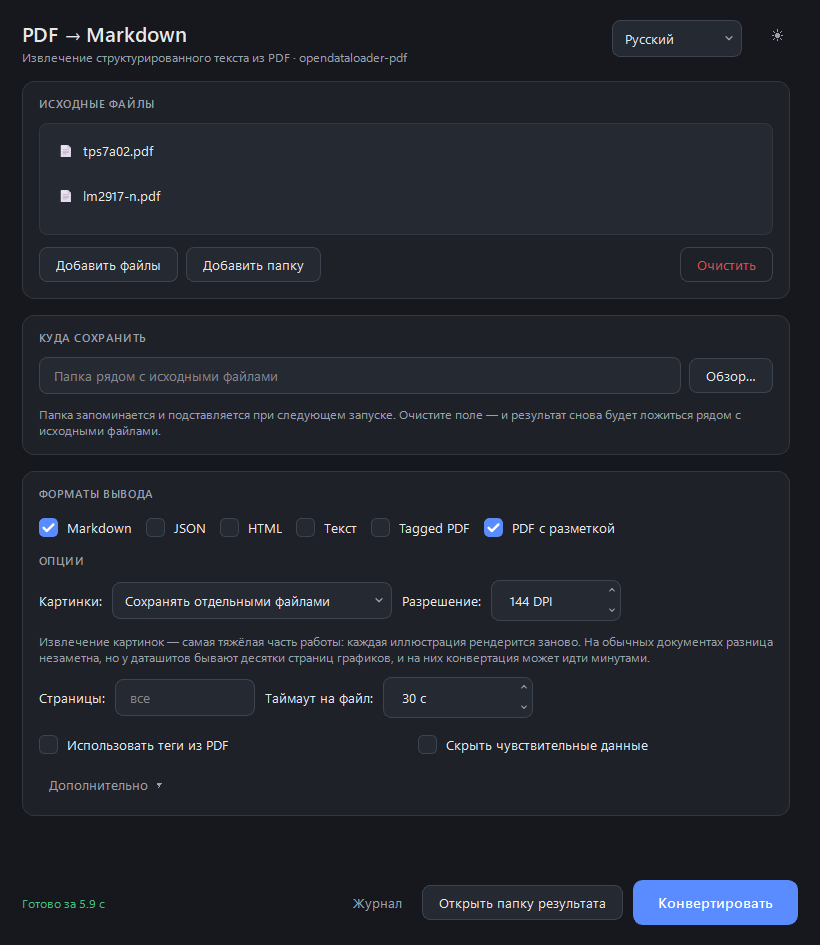
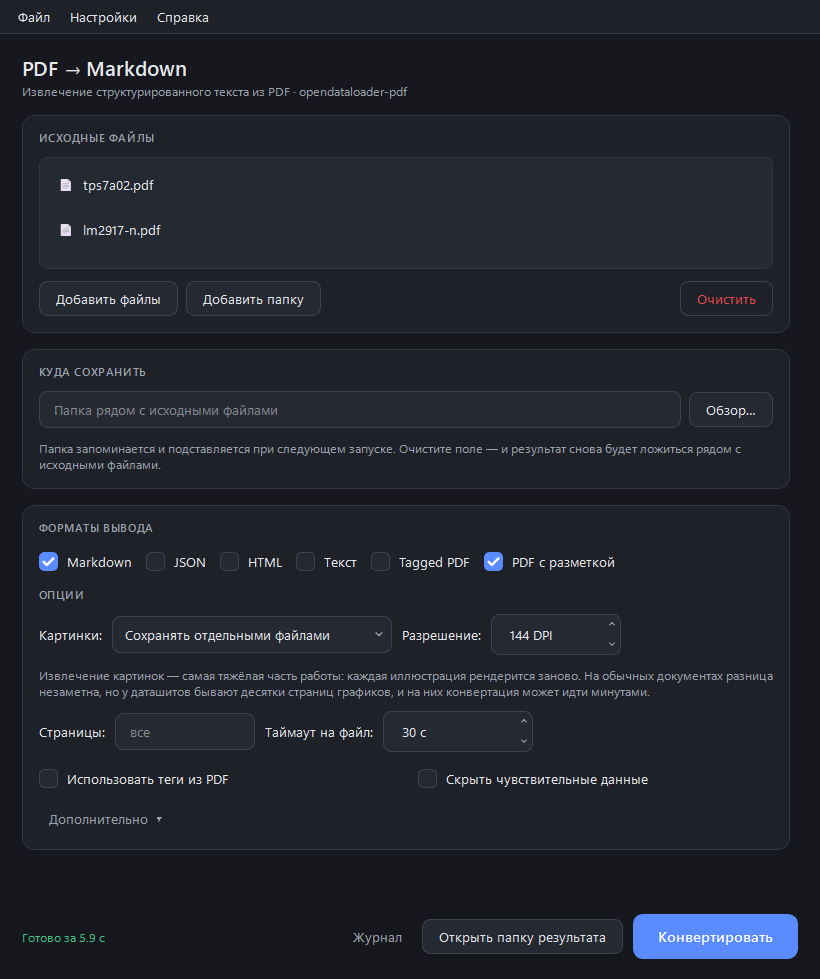
CI: refuse a release tag that differs from version.py; docs for the menu
The installer takes its version from the tag and About from version.py,
so a mismatched tag now stops the build. README, README.ru and BUILD.md
describe the menu; the screenshots show it.

diff --git a/BUILD.md b/BUILD.md
@@ -115,12 +115,15 @@ python -m pytest tests
 - «Отмена» на длинном файле: окно освобождается сразу, java.exe исчезает из
   диспетчера задач.
 - PDF, перетащенный на значок exe, сразу появляется в списке файлов.
-- Язык в правом верхнем углу: окно пересобирается на выбранном языке, список
+- «Настройки → Язык»: окно пересобирается на выбранном языке, список
   файлов и настройки остаются. На самом длинном языке (сейчас польском) при
   минимальной ширине окна с открытым «Дополнительно» ничего не обрезано справа.
 - Установщик открывается на языке Windows и показывает лицензию GPL.
-- Первая строка журнала — версия opendataloader-pdf, а не `?` (значит,
-  метаданные пакета попали в сборку), вторая — «заплатка veraPDF: включена»
-  (значит, `patches/` попала в сборку).
+- Первая строка журнала — «PDF → Markdown <версия> · opendataloader-pdf
+  <версия>», без `?` (значит, метаданные пакета попали в сборку). После
+  запуска конвертации в журнале — «заплатка veraPDF: включена» (значит,
+  `patches/` попала в сборку).
+- «Справка → О программе» показывает ту же версию, что и метка релиза, а
+  кнопки в окнах-вопросах — на языке программы («Да / Нет», а не «Yes / No»).
 - Настоящий даташит с графиками (например, TI tps7a02) конвертируется за
   секунды, без `OutOfMemoryError` в журнале.

diff --git a/README.md b/README.md
@@ -45,8 +45,11 @@ your PC" on first run: click **More info → Run anyway**.
 - Page ranges, image options, reading order, table detection method, PDF
   password; every setting is remembered between launches.
 - Six languages — English, Русский, Polski, Français, Español, Italiano. The
-  app follows the Windows language; switch it in the top-right corner.
-- Light and dark theme.
+  app follows the Windows language; switch it in **Settings → Language**.
+- A standard Windows menu — **File**, **Settings**, **Help** — with the usual
+  shortcuts (Ctrl+O to add files, Ctrl+Enter to convert, Esc to stop, F1 for
+  this guide).
+- Light and dark theme, or follow Windows.
 
 ### Tips for datasheets
 
